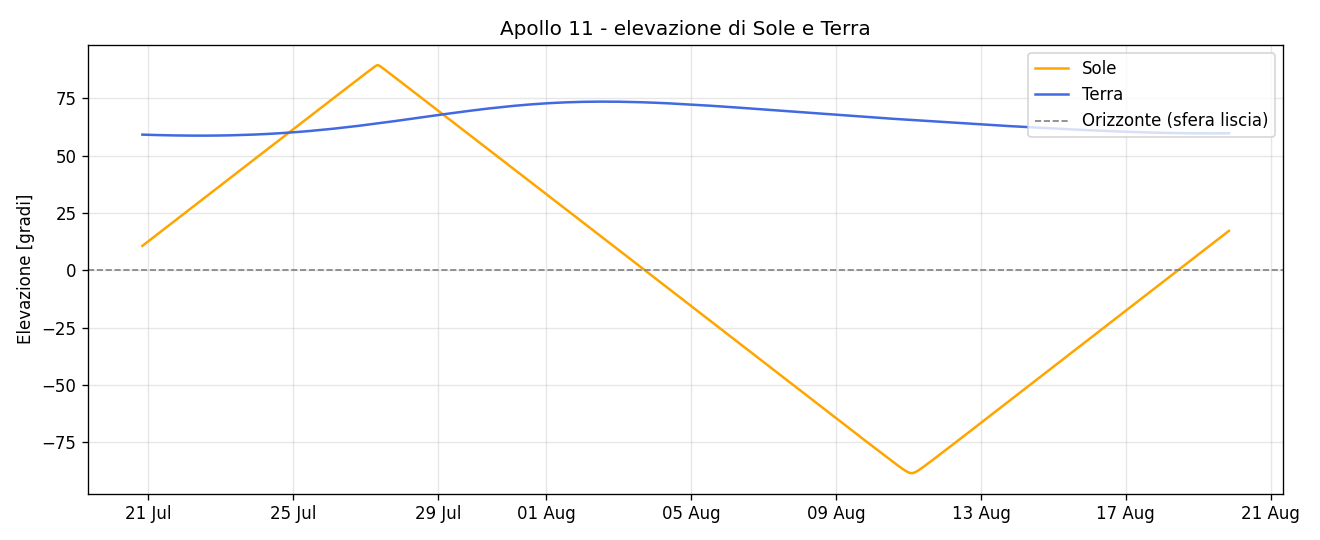
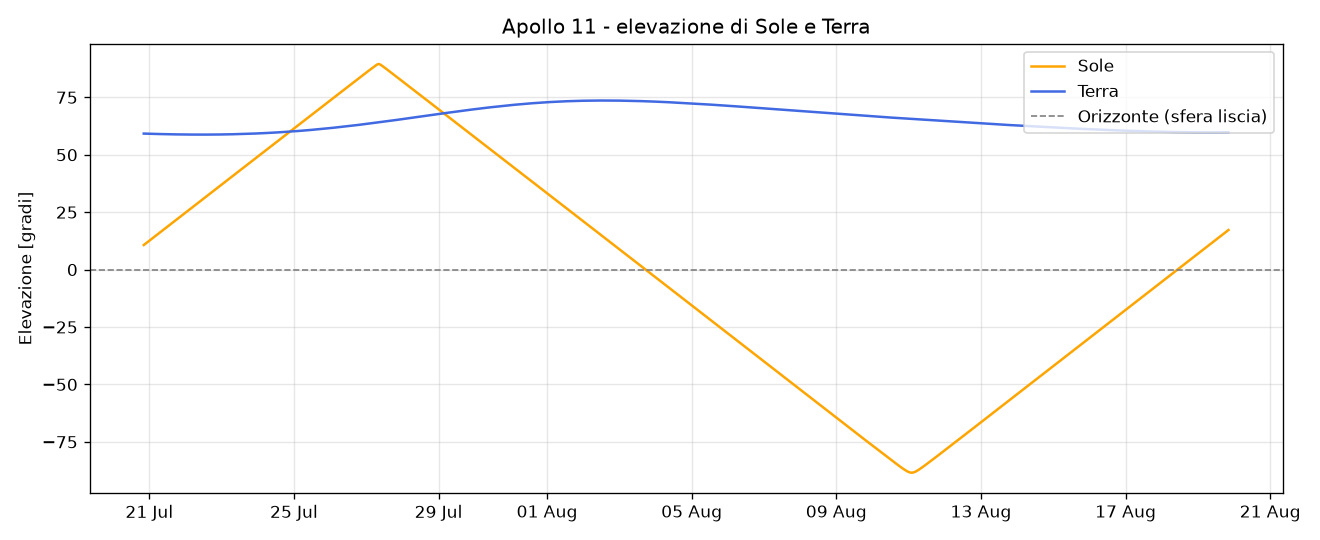
Added comments

diff --git a/2-Ephemerids/effemeridi.py b/2-Ephemerids/effemeridi.py
@@ -42,10 +42,10 @@ def _risorse():
         ts = _load.timescale()
         eph = _load('de421.bsp')
         pc = PlanetaryConstants()
-        pc.read_text(_load('moon_080317.tf'))
-        pc.read_text(_load('pck00008.tpc'))
-        pc.read_binary(_load('moon_pa_de421_1900-2050.bpc'))
-        frame = pc.build_frame_named('MOON_ME_DE421')
+        pc.read_text(_load('moon_080317.tf'))                 # Lunear reference frame
+        pc.read_text(_load('pck00008.tpc'))                   # Planetary Constants Kernel (PCK) con orientamento della Luna
+        pc.read_binary(_load('moon_pa_de421_1900-2050.bpc'))  # Lunar orientation data (PA = principal axes) per il periodo 1900-2050
+        frame = pc.build_frame_named('MOON_ME_DE421')         # Build the lunar reference frame using the DE421 ephemeris - coerent with LOLA data
         _cache.update(ts=ts, eph=eph, pc=pc, frame=frame)
     return _cache
 
@@ -53,8 +53,8 @@ def _risorse():
 def _maschera(orizzonte, azimut):
     """Elevazione dell'orizzonte (gradi) nelle direzioni 'azimut'."""
     if orizzonte is None:
-        return np.zeros_like(azimut)
-    oriz = np.asarray(orizzonte, dtype=float)
+        return np.zeros_like(azimut)                           
+    oriz = np.asarray(orizzonte, dtype=float)                 
     gradi = np.linspace(0, 360, len(oriz), endpoint=False)
     return np.interp(azimut, gradi, oriz, period=360)
 
